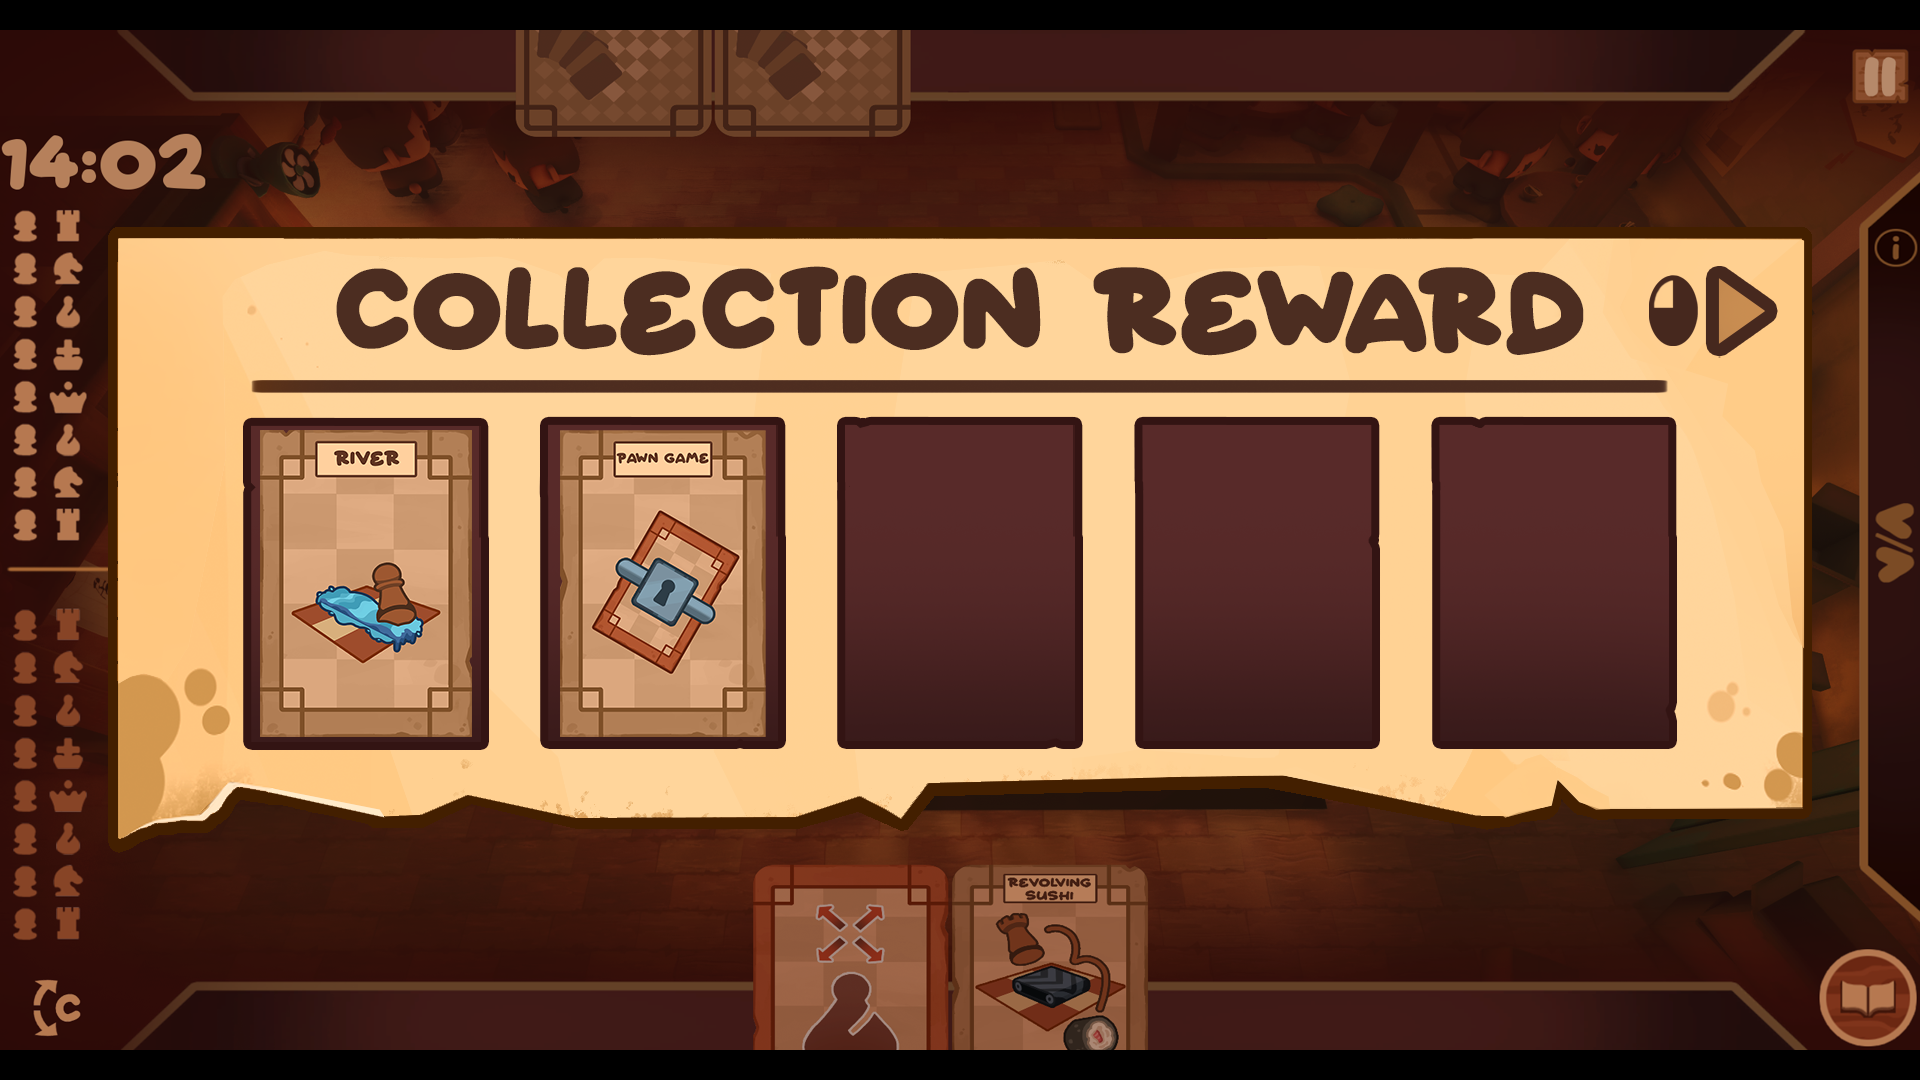
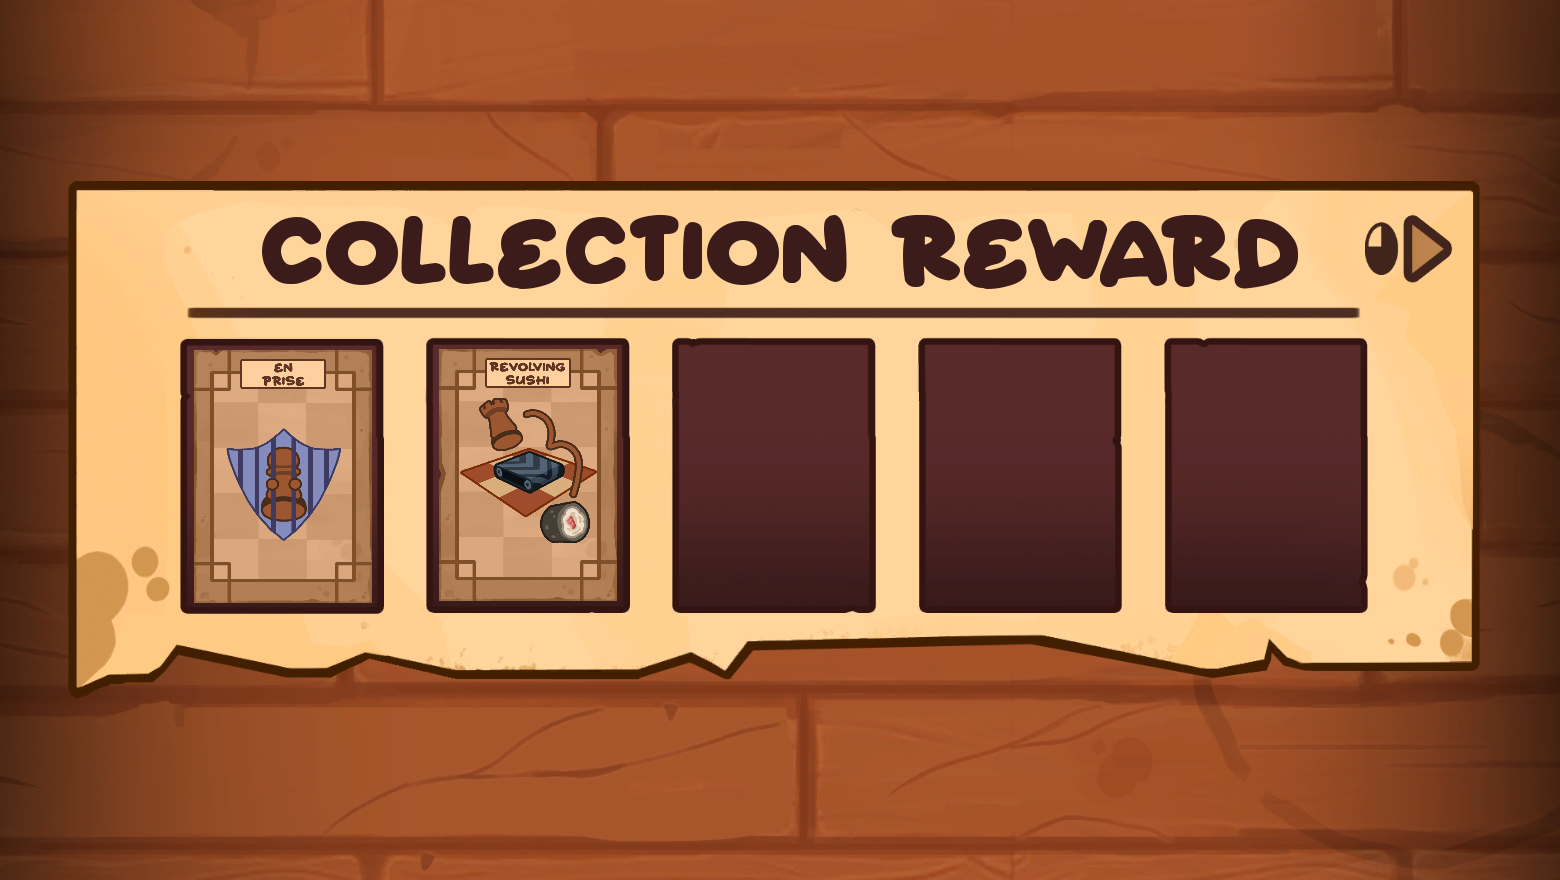
updating cozy chessu image

diff --git a/cozychessupage.html b/cozychessupage.html
@@ -132,21 +132,68 @@
 
           
                 <div class="swiper-slide">
-                  <img src="assets/img/pergame/cozychessu/lobby.png" alt="">
+                  <img src="assets/img/pergame/cozychessu/mainmenu.png" alt="">
                 </div>
 
                   <div class="swiper-slide">
-                  <img src="assets/img/pergame/cozychessu/palmread.png" alt="">
+                  <img src="assets/img/pergame/cozychessu/lobby.png" alt="">
                 </div>
               
                  <div class="swiper-slide">
-                  <img src="assets/img/pergame/cozychessu/reward.png" alt="">
+                  <img src="assets/img/pergame/cozychessu/cutscene1.png" alt="">
                 </div>
 
                    <div class="swiper-slide">
-                  <img src="assets/img/pergame/cozychessu/shiftswap.png" alt="">
+                  <img src="assets/img/pergame/cozychessu/hopsctoch.png" alt="">
                 </div>
 
+                  <div class="swiper-slide">
+                  <img src="assets/img/pergame/cozychessu/dialogue.png" alt="">
+                </div>
+
+                 <div class="swiper-slide">
+                  <img src="assets/img/pergame/cozychessu/puzzle0.png" alt="">
+                </div>
+
+                <div class="swiper-slide">
+                  <img src="assets/img/pergame/cozychessu/puzzle1.png" alt="">
+                </div>
+
+                 <div class="swiper-slide">
+                  <img src="assets/img/pergame/cozychessu/dialogue2.png" alt="">
+                </div>
+
+                 <div class="swiper-slide">
+                  <img src="assets/img/pergame/cozychessu/puzzle2.png" alt="">
+                </div>
+
+                 <div class="swiper-slide">
+                  <img src="assets/img/pergame/cozychessu/puzzle3.png" alt="">
+                </div>
+
+                <div class="swiper-slide">
+                  <img src="assets/img/pergame/cozychessu/cutscene2.png" alt="">
+                </div>
+
+                <div class="swiper-slide">
+                  <img src="assets/img/pergame/cozychessu/puzzle4.png" alt="">
+                </div>
+
+                 <div class="swiper-slide">
+                  <img src="assets/img/pergame/cozychessu/puzzle5.png" alt="">
+                </div>
+
+                 <div class="swiper-slide">
+                  <img src="assets/img/pergame/cozychessu/dialogue3.png" alt="">
+                </div>
+
+                <div class="swiper-slide">
+                  <img src="assets/img/pergame/cozychessu/puzzle6.png" alt="">
+                </div>
+
+                <div class="swiper-slide">
+                  <img src="assets/img/pergame/cozychessu/cutscene3.png" alt="">
+                </div>
 
               </div>
               <div class="swiper-pagination"></div>
